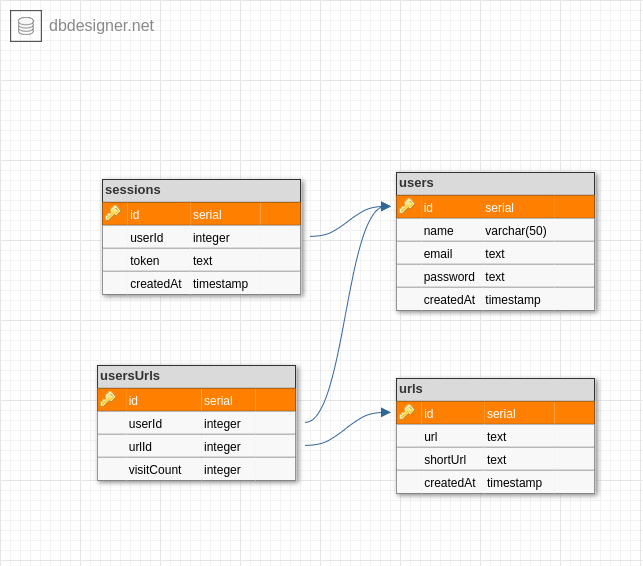
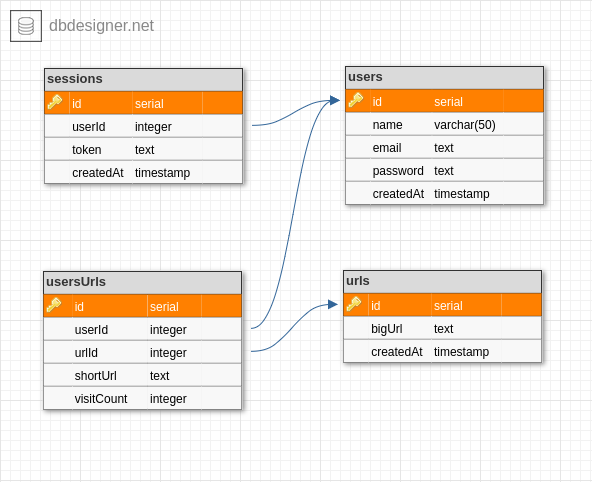
refact: changes to new database design

diff --git a/src/middlewares/url.middleware.js b/src/middlewares/url.middleware.js
@@ -23,6 +23,40 @@ export function urlSchemaValid(req, res, next) {
   next();
 }
 
+export async function urlRegistered(req, res, next) {
+
+  const { url } = res.locals.url;
+
+  try {
+    await connection.query(`
+      INSERT INTO 
+        urls ("bigUrl")
+      VALUES 
+        ($1)
+      ON CONFLICT ("bigUrl") DO NOTHING;`,
+      [url]
+    );
+
+    const [urlId] = (await connection.query(`
+      SELECT 
+        id
+      FROM
+        urls
+      WHERE "bigUrl"=$1;`,
+      [url]
+    )).rows;
+
+    res.locals.urlId = { urlId: urlId.id };
+
+  } catch (err) {
+    console.error(MESSAGE_INTERNAL_SERVER_ERROR, err);
+    res.status(500).send({ message: MESSAGE_CLIENT_SERVER_ERROR });
+    return;
+  }
+
+  next();
+}
+
 export async function urlValid(req, res, next) {
 
   const { id } = res.locals.user;
@@ -33,9 +67,17 @@ export async function urlValid(req, res, next) {
       SELECT 
         * 
       FROM 
-        urls 
+        "usersUrls"
+      JOIN
+        users
+      ON
+        "usersUrls"."userId"=users.id
+      JOIN
+        urls
+      ON
+        "usersUrls"."urlId"=urls.id
       WHERE 
-        "userId"=$1 AND url=$2;`,
+        users.id=$1 AND urls."bigUrl"=$2;`,
       [id, url]
     )).rows;
 
@@ -53,18 +95,25 @@ export async function urlValid(req, res, next) {
   next();
 }
 
-export async function linkIdValid(req, res, next) {
+export async function shortIdValid(req, res, next) {
 
   const { id } = req.params;
 
   try {
-    const [link] = (await connection.query(`
+    const [url] = (await connection.query(`
       SELECT 
-        id, "userId", "shortUrl", url 
+        "usersUrls".id,
+        "usersUrls"."userId",
+        "usersUrls"."shortUrl", 
+        urls.bigUrl AS url
       FROM 
-        urls 
+        "usersUrls"
+      JOIN
+        urls
+      ON
+        "usersUrls"."urlId"=urls.id
       WHERE 
-        "id"=$1;`,
+        "usersUrls".id=$1;`,
       [id]
     )).rows;
 
@@ -91,9 +140,13 @@ export async function shortUrlValid(req, res, next) {
   try {
     const [link] = (await connection.query(`
       SELECT 
-        id, url, "visitCount" 
+        "usersUrls".id, "usersUrls"."shortUrl", "usersUrls"."visitCount", urls."bigUrl" 
       FROM 
-        urls 
+        "usersUrls"
+      JOIN
+        urls
+      ON
+        "usersUrls"."urlId"=urls.id
       WHERE 
         "shortUrl"=$1;`,
       [shortUrl]
@@ -115,7 +168,7 @@ export async function shortUrlValid(req, res, next) {
   next();
 }
 
-export async function urlUserValid(req, res, next) {
+export function urlUserValid(req, res, next) {
 
   const { userId } = req.res.locals.link;
   const { id } = res.locals.user;

diff --git a/src/controllers/users.controller.js b/src/controllers/users.controller.js
@@ -6,28 +6,43 @@ import {
 
 export async function getUserShortenedUrls(req, res) {
 
+  const { id } = res.locals.user;
+
   try {
     const [userShortenedUrls] = (await connection.query(`
       SELECT 
-        users.id, users.name, SUM(urls."visitCount") AS "visitCount", (
+        users.id, users.name, SUM("usersUrls"."visitCount") AS "visitCount", (
           SELECT 
             json_agg(json_build_object(
-              'id', u.id, 
-              'shortUrl', u."shortUrl", 
-              'url', u.url, 
-              'visitCount', u."visitCount"
+              'id', "usersUrls".id, 
+              'shortUrl', "usersUrls"."shortUrl", 
+              'url', urls."bigUrl", 
+              'visitCount', "usersUrls"."visitCount"
             )) AS "shortenedUrls"
           FROM
-            urls AS u
+            "usersUrls"
+          JOIN  
+            urls
+          ON 
+            "usersUrls"."urlId"=urls.id
+          WHERE
+            "usersUrls"."userId"=$1
         ) 
       FROM  
+        "usersUrls"
+      JOIN  
         urls
+      ON 
+        "usersUrls"."urlId"=urls.id
       JOIN  
         users 
       ON 
-        users.id=urls."userId"
+        "usersUrls"."userId"=users.id
+      WHERE
+        "usersUrls"."userId"=$1
       GROUP BY
-        users.id;`
+        users.id;`,
+      [id]
     )).rows;
 
     res.status(200).send(userShortenedUrls);

diff --git a/src/controllers/urls.controller.js b/src/controllers/urls.controller.js
@@ -9,17 +9,17 @@ import {
 export async function shorten(req, res) {
 
   const { id } = res.locals.user;
-  const { url } = res.locals.url;
+  const { urlId } = res.locals.urlId;
   const shortUrl = nanoid(8);
 
   try {
     await connection.query(`
       INSERT INTO 
-        urls 
-        ("userId", "shortUrl", url)
+        "usersUrls" 
+        ("userId", "urlId", "shortUrl")
       VALUES 
         ($1, $2, $3);`,
-      [id, shortUrl, url]
+      [id, urlId, shortUrl]
     );
 
     res.status(201).send({ shortUrl: shortUrl });
@@ -40,12 +40,12 @@ export async function getLinkById(req, res) {
 
 export async function redirectToLink(req, res) {
 
-  const { id, url, visitCount } = res.locals.link;
+  const { id, bigUrl, visitCount } = res.locals.link;
 
   try {
     await connection.query(`
       UPDATE 
-        urls
+        "usersUrls"
       SET 
         "visitCount"=$1
       WHERE
@@ -53,7 +53,7 @@ export async function redirectToLink(req, res) {
       [visitCount + 1, id]
     );
 
-    res.redirect(url);
+    res.redirect(bigUrl);
 
   } catch (err) {
     console.error(MESSAGE_INTERNAL_SERVER_ERROR, err);
@@ -68,7 +68,7 @@ export async function deleteLink(req, res) {
   try {
     await connection.query(`
       DELETE FROM
-        urls
+        "usersUrls"
       WHERE
         id=$1;`,
       [id]

diff --git a/src/middlewares/tokenValid.middleware.js b/src/middlewares/tokenValid.middleware.js
@@ -21,8 +21,8 @@ export async function tokenValid(req, res, next) {
       users.id, 
       users.name, 
       users.email, 
-      sessions."createdAt" AS sessionCreateTime, 
-      session.id AS sessionId
+      sessions."createdAt" AS "sessionCreatedAt", 
+      sessions.id AS "sessionId"
     FROM 
       sessions
     JOIN 
@@ -39,8 +39,8 @@ export async function tokenValid(req, res, next) {
       return;
     }
 
-    if (user.sessionCreateTime.setDate(
-      user.sessionCreateTime.getDate() + DAYS_TOKEN_EXPIRE) < new Date) {
+    if (user.sessionCreatedAt.setDate(
+      user.sessionCreatedAt.getDate() + DAYS_TOKEN_EXPIRE) < new Date) {
         await connection.query(`
           DELETE FROM
             sessions

diff --git a/src/routes/urls.router.js b/src/routes/urls.router.js
@@ -9,10 +9,11 @@ import {
 } from '../controllers/urls.controller.js';
 
 import { 
-  shortUrlValid, 
-  linkIdValid, 
-  urlSchemaValid, 
+  urlSchemaValid,
+  urlRegistered,
   urlValid,
+  shortIdValid, 
+  shortUrlValid, 
   urlUserValid
 } from '../middlewares/url.middleware.js';
 
@@ -22,13 +23,14 @@ urls.post(
   '/urls/shorten',
   tokenValid,
   urlSchemaValid,
+  urlRegistered,
   urlValid,
   shorten
 );
 
 urls.get(
   '/urls/:id',
-  linkIdValid,
+  shortIdValid,
   getLinkById
 );
 
@@ -41,7 +43,7 @@ urls.get(
 urls.delete(
   '/urls/:id',
   tokenValid,
-  linkIdValid,
+  shortIdValid,
   urlUserValid,
   deleteLink
 );

diff --git a/src/controllers/ranking.controller.js b/src/controllers/ranking.controller.js
@@ -11,14 +11,14 @@ export async function getRanking(req, res) {
       SELECT 
         users.id, 
         users.name, 
-        COUNT(urls."visitCount") AS "linksCount", 
-        SUM(urls."visitCount") AS "visitCount"
+        COUNT("usersUrls"."visitCount") AS "linksCount", 
+        COALESCE(SUM("usersUrls"."visitCount"), 0) AS "visitCount"
       FROM
-        urls 
-      JOIN  
         users 
+      LEFT JOIN  
+        "usersUrls"
       ON 
-        users.id=urls."userId"
+        users.id="usersUrls"."userId"
       GROUP BY
         users.id
       ORDER BY
